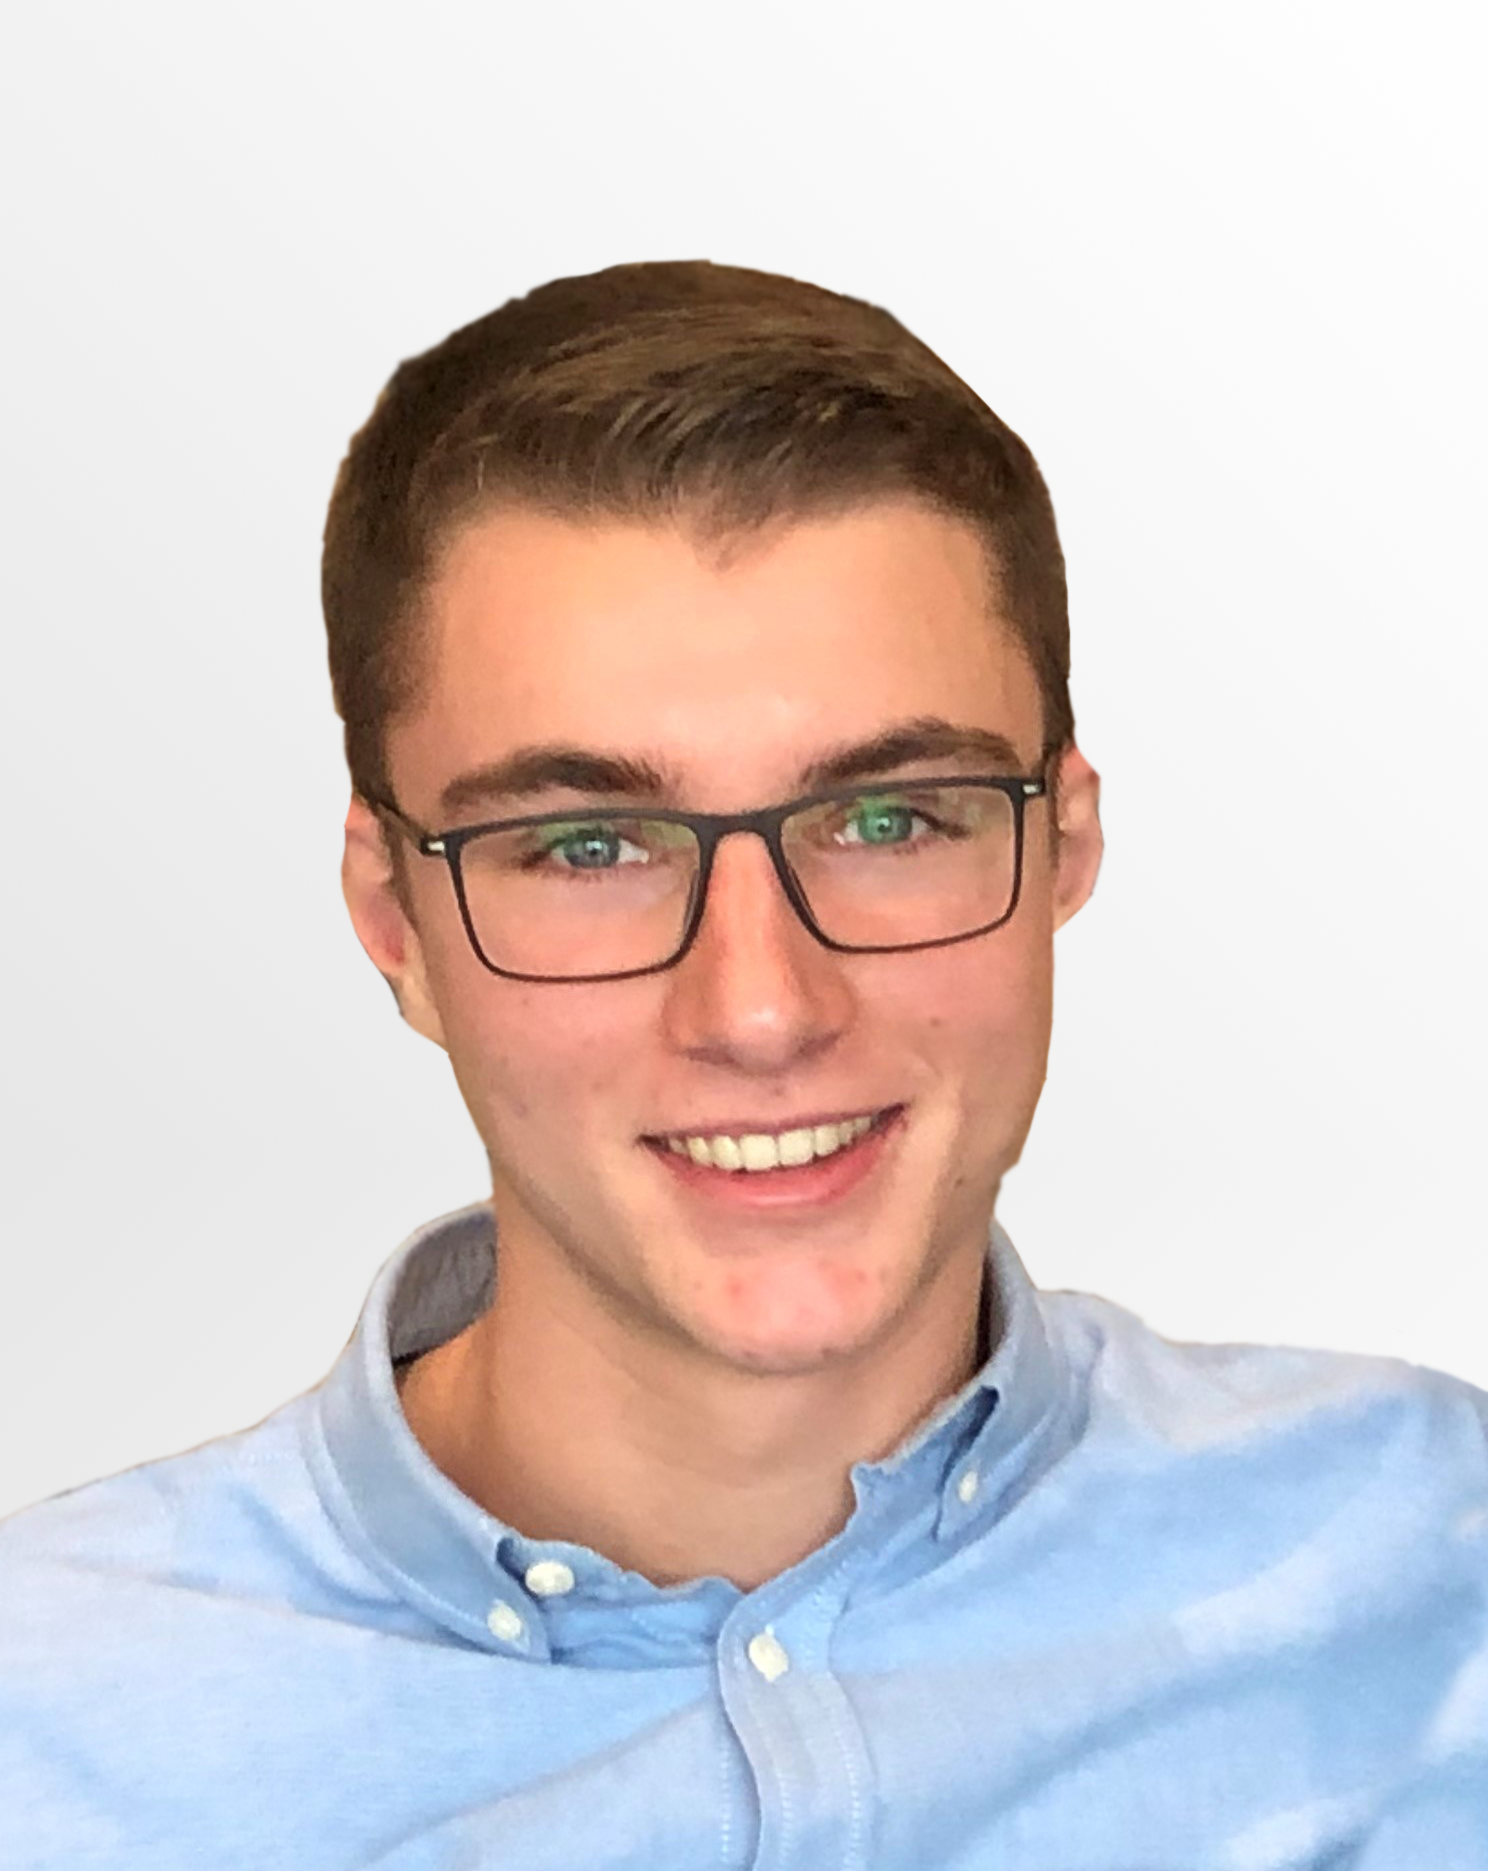
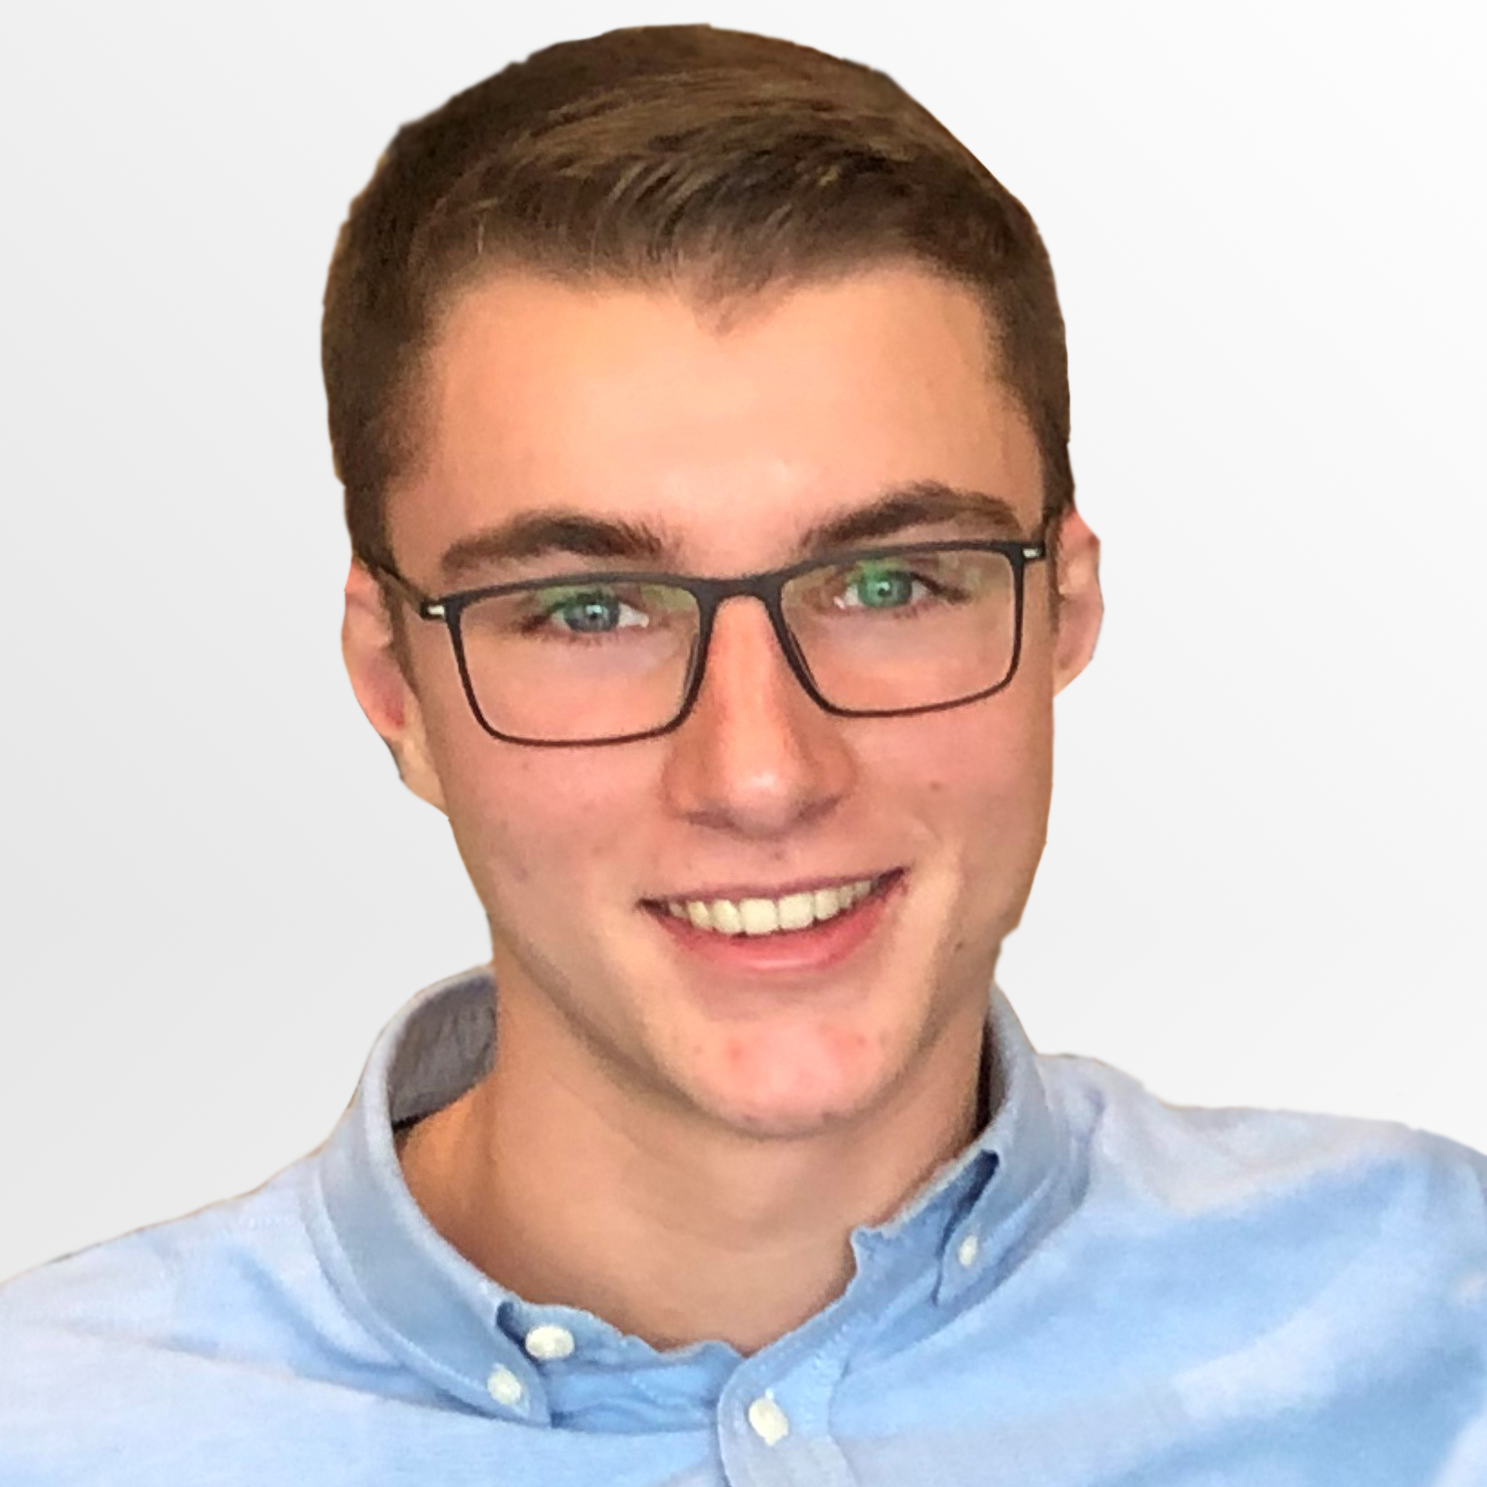
Team Anpassung

diff --git a/team.js b/team.js
@@ -21,7 +21,7 @@ function showProfileDetails(number){
     //-----------------------------------------------
     // hardcoded data
     
-    let names = ["Andreas Schmitt" , "Noah Simonis", "Stefanie Müller",
+    let names = ["Lukas Neuerburg" , "Noah Simonis", "Stefanie Müller",
                  "Paul Siegemund", "Torsten Schneider", "Lotte Görgen",
                  "Marius Berens", "Leon Kloep", "Janine Ritz"
     ];
@@ -29,7 +29,7 @@ function showProfileDetails(number){
                   "Personalleitung (CHRO)", "Marketing-Chef (CMO)", "Assistentin CEO / CFO",
                   "Projektleitung", "Systemadministrator", "Auszubildene"
     ];
-    let alter = ["54", "21", "34",
+    let alter = ["23", "21", "34",
                  "29", "40", "25",
                  "27", "34", "18"
     ];
@@ -37,16 +37,16 @@ function showProfileDetails(number){
                    "1.88", "1.75", "1.64",
                    "1.94", "1.85", "1.69"
     ];
-    let wohnort = ["Trier", "Dreis", "Waldrach",
+    let wohnort = ["Fliessen", "Dreis", "Waldrach",
                    "Klausen", "Trierweiler", "Trier",
                    "Dorf", "Lüxem", "Tarforst"
     ];
-    let arbeitszeit = ["21.09.2015", "17.07.2014", "22.04.2016",
+    let arbeitszeit = ["17.07.2014", "17.07.2014", "22.04.2016",
                        "25.09.2015", "08.01.2016", "28.01.2016",
                        "22.08.2017", "09.09.2019", "01.09.2021"
     ];
 
-    let image = [ "images/cartoon-gc2871d41c_1920.jpg", "images/Noah_Simonis_Team_Farbe.jpg", "images/cartoon-gc2871d41c_1920.jpg",
+    let image = [ "images/Lukas_Neuerburg_Team_Farbe.png", "images/Noah_Simonis_Team_Farbe.jpg", "images/cartoon-gc2871d41c_1920.jpg",
                   "images/Paul_Siegemund_Team_Farbe.jpg", "images/cartoon-gc2871d41c_1920.jpg", "images/Lotte_Görgen_Team_Frabe.JPG",
                   "images/Marius_Berens_Team_Farbe.jpg", "images/Leon_Kloep_Team_Farbe.jpg", "images/Janine_Ritz_Team_Frabe.JPG",
     ];

diff --git a/team.html b/team.html
@@ -87,7 +87,7 @@
         </div>
         <div class="profiles">
             <div class="profile">
-                <img src="images/cartoon-gc2871d41c_1920.jpg" alt="Profilbild" onclick="profileDetails(0)">
+                <img src="images/Lukas_Neuerburg_Team_Farbe.png" alt="Profilbild" onclick="profileDetails(0)">
                 <h3 class="user-name">Lukas Neuerburg</h3>
                 <h5>Geschäftsführung (CEO)</h5>
             </div>
